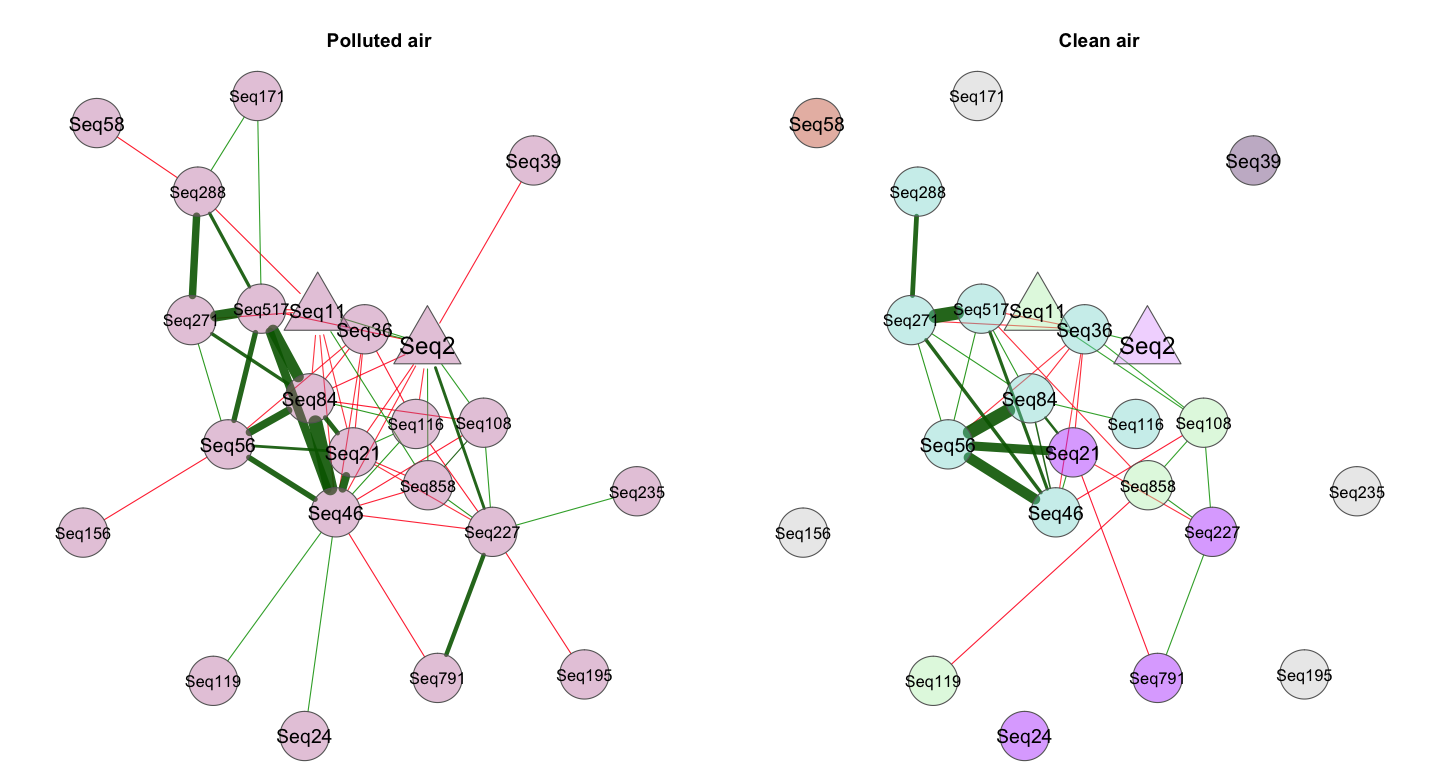
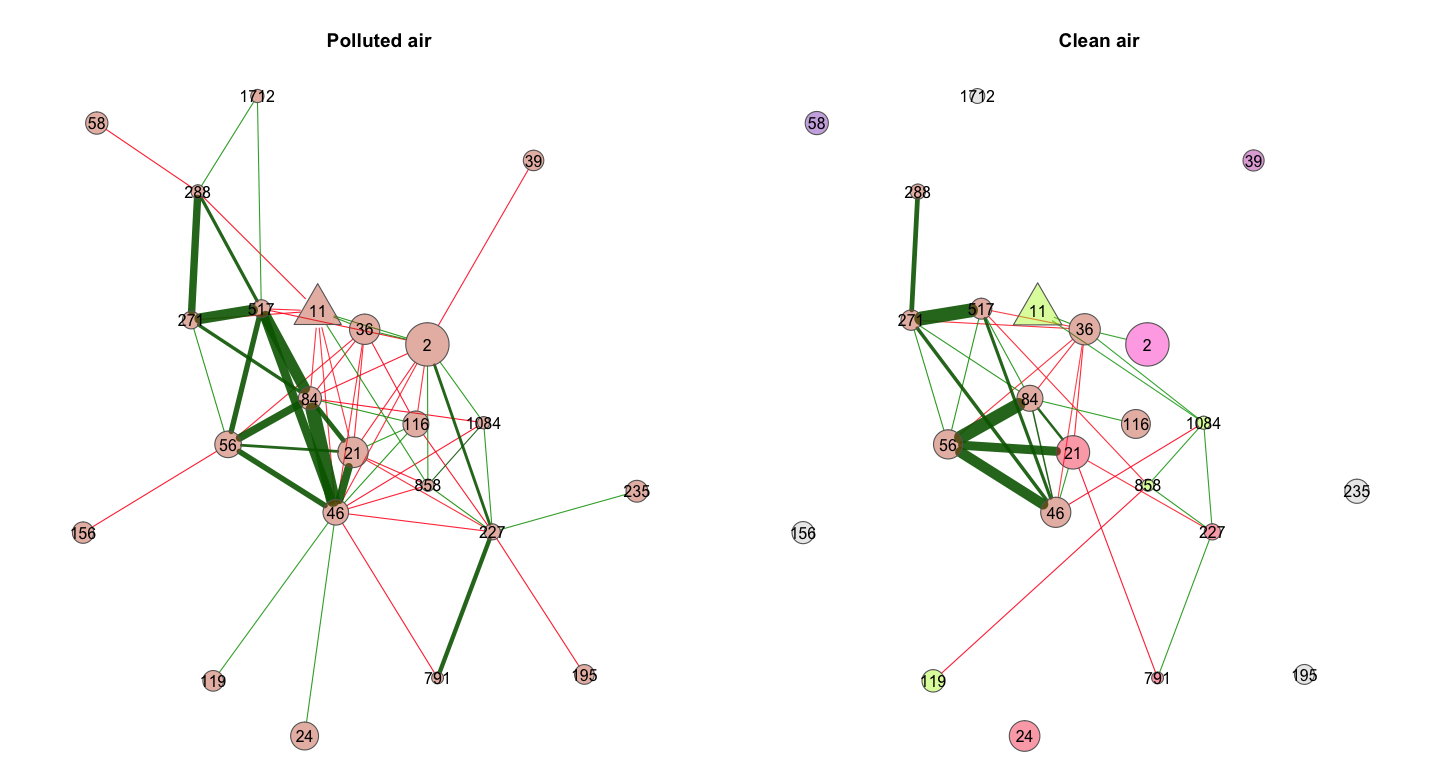
additional results

diff --git a/5_networks/5.2.1_Networks_viz_Gen.md b/5_networks/5.2.1_Networks_viz_Gen.md
@@ -30,7 +30,15 @@ The following code was run on a cluster.
 # props_W <- netAnalyze(net_W, clustMethod = "cluster_fast_greedy")
 ```
 
-    ## [1] 5
+    ## Taxonomy Table:     [3 taxa by 7 taxonomic ranks]:
+    ##        Kingdom    Phylum       Class        Order           Family           
+    ## Seq876 "Bacteria" "Firmicutes" "Clostridia" "Clostridiales" "Lachnospiraceae"
+    ## Seq11  "Bacteria" "Firmicutes" "Clostridia" "Clostridiales" "Lachnospiraceae"
+    ## Seq137 "Bacteria" "Firmicutes" "Clostridia" "Clostridiales" "Ruminococcaceae"
+    ##        Genus            Species
+    ## Seq876 "Marvinbryantia" NA     
+    ## Seq11  "Blautia"        NA     
+    ## Seq137 "Anaerotruncus"  NA
 
 We plot the results of the netAnalyze function.
 
@@ -42,17 +50,17 @@ phylcol <- rainbow(length(unique(phyl_ps_prune)))
 set.seed(1)
 
 shapeVec <- rep(1, ncol(otu_table(ps_Genus_prune)))
-shapeVec[c(116,2,5)] <- 2
+shapeVec[c(116,5,47)] <- 2
 names(shapeVec) <- names(phyl_ps_prune)
 
 plot(props_W, 
-     # rmSingles = "inboth",
+     rmSingles = "inboth",
      layout = "layout_with_fr",
      sameLayout = TRUE, layoutGroup = 1, labels = FALSE,
      featVecCol = phyl_ps_prune, nodeColor = "feature", 
      nodeTransp = 20,
      borderCol = "gray40", highlightHubs = FALSE, 
-     nodeSize = "normCounts",
+     nodeSize = "clr",
      nodeSizeSpread = 1, 
      cexNodes = 2, cexTitle = 2,
      edgeTranspLow = 30, edgeTranspHigh = 30,
@@ -71,7 +79,7 @@ legend("bottom",
 legend("bottom", 
        inset = .19, 
        title = "differentially abundant:",
-       legend=c("Genus (Marvinbryantia (top right), Blautia (bottom left), Bacteroides)"), 
+       legend=c("Genus"), 
        pch = c(2,0,5), 
        bty="n", horiz = FALSE) 
 ```
@@ -81,32 +89,14 @@ legend("bottom",
 ## Network properties
 
 ``` r
-summary(props_W)[[1]]
+# summary(props_W)
 ```
-
-    ##                       group '1' group '2'
-    ## average path length     3.19231   2.56611
-    ## clustering coeff.       0.36027   0.29231
-    ## modularity              0.60138   0.61070
-    ## edge density            0.01506   0.01433
-    ## vertex connectivity     0.00000   0.00000
-    ## edge connectivity       0.00000   0.00000
 
 ### Modularity (clusters/modules)
 
 ``` r
-summary(props_W)[[2]]
+# summary(props_W)[[2]]
 ```
-
-    ## [[1]]
-    ##                                                    
-    ## name:  0  1  2  3 4  5 6 7 8 9 10 11 12 13 14 15 16
-    ## freq: 49 15 10 23 2 10 8 2 4 5  5  2  3  4  2  2  3
-    ## 
-    ## [[2]]
-    ##                                                     
-    ## name:  0  1  2 3  4  5 6  7 8 9 10 11 12 13 14 15 16
-    ## freq: 49 11 16 2 18 15 2 10 2 6  4  4  2  2  2  2  2
 
 #### Vizualisation
 
@@ -127,10 +117,10 @@ plot_cluster <- plot(props_W,
      sameColThresh = 2,
      nodeTransp = 40, 
      borderCol = "gray40", highlightHubs = FALSE,
-     nodeSize = "normCounts", cexNodes = 1, 
+     nodeSize = "clr", cexNodes = 1, 
      nodeShape = c("circle", "triangle"),
      featVecShape = shapeVec,
-     # rmSingles = "inboth",
+     rmSingles = "inboth",
      cexTitle = 2,
      edgeTranspLow = 30, 
      edgeTranspHigh = 30,
@@ -143,7 +133,7 @@ legend("bottom",
 legend("bottom", 
        inset = .17, 
        title = "differentially abundant:",
-       legend=c("Genus (Marvinbryantia (top right), Blautia (bottom left), Bacteroides)"),  
+       legend=c("Genus"),  
        pch = c(2,0,5), 
        bty="n", horiz = FALSE) 
 ```
@@ -213,12 +203,17 @@ col_module <- unique(plot_cluster$nodecolor$nodecol1[names_clust],
 plot(props_W, 
      sameLayout = TRUE, layoutGroup = 1, 
      # labels = list(props_W$clustering$clust1[names_clust], props_W$clustering$clust2[names_clust]), 
-     labelFont = 1, cexLabels = 1.5,
-     nodeColor = "cluster",
-     colorVec = col,
-     sameColThresh = 20,
+     charToRm = "Seq",
+     labelFont = 1, 
+     cexLabels = 1,
+     labelScale = FALSE,
+     nodeColor = "colorVec",
+     colorVec = list(plot_cluster$nodecolor$nodecol1[names_clust],
+                  plot_cluster$nodecolor$nodecol2[names_clust]),
+     sameClustCol = FALSE,
+     # sameColThresh = 20,
      borderCol = "gray40", highlightHubs = FALSE,
-     nodeSize = "fix", cexNodes = 1, 
+     nodeSize = "clr", cexNodes = 1.5, 
      nodeFilter = "names",
      nodeShape = c("circle", "triangle"),
      featVecShape = shapeVec[names_clust],
@@ -230,33 +225,21 @@ plot(props_W,
 ![](5.2.1_Networks_viz_Gen_files/figure-gfm/unnamed-chunk-10-1.png)<!-- -->
 
 ``` r
-names_clust_PM <- as.character(names(which(props_W$clustering$clust1 == 3)))
-names_clust_PM
+tax_table(ps_Genus_prune)[c("Seq46","Seq21","Seq56","Seq517","Seq288","Seq11"),]
 ```
 
-    ##  [1] "Seq2"    "Seq11"   "Seq21"   "Seq24"   "Seq36"   "Seq39"   "Seq46"  
-    ##  [8] "Seq56"   "Seq58"   "Seq84"   "Seq116"  "Seq119"  "Seq156"  "Seq195" 
-    ## [15] "Seq227"  "Seq235"  "Seq271"  "Seq288"  "Seq517"  "Seq791"  "Seq858" 
-    ## [22] "Seq1084" "Seq1712"
-
-``` r
-# save(names_clust_PM, file= "/Users/alicesommer/Desktop/DACOMP_cluster/results/PM_connect_seq.RData")
-```
-
-``` r
-tax_table(ps_Genus_prune)[c("Seq46","Seq21","Seq56","Seq517","Seq288"),]
-```
-
-    ## Taxonomy Table:     [5 taxa by 7 taxonomic ranks]:
+    ## Taxonomy Table:     [6 taxa by 7 taxonomic ranks]:
     ##        Kingdom    Phylum        Class        Order          
     ## Seq46  "Bacteria" "Firmicutes"  "Clostridia" "Clostridiales"
     ## Seq21  "Bacteria" "Firmicutes"  "Clostridia" "Clostridiales"
     ## Seq56  "Bacteria" "Firmicutes"  "Clostridia" "Clostridiales"
     ## Seq517 "Bacteria" "Firmicutes"  "Clostridia" "Clostridiales"
     ## Seq288 "Bacteria" "Tenericutes" "Mollicutes" "NB1-n"        
+    ## Seq11  "Bacteria" "Firmicutes"  "Clostridia" "Clostridiales"
     ##        Family                Genus                           Species
     ## Seq46  "Christensenellaceae" "Christensenellaceae_R-7_group" NA     
     ## Seq21  "Ruminococcaceae"     "Ruminococcaceae_UCG-002"       NA     
     ## Seq56  "Ruminococcaceae"     "Ruminococcaceae_UCG-005"       NA     
     ## Seq517 "Ruminococcaceae"     "Ruminococcaceae_UCG-010"       NA     
-    ## Seq288 NA                    NA                              NA
+    ## Seq288 NA                    NA                              NA     
+    ## Seq11  "Lachnospiraceae"     "Blautia"                       NA
